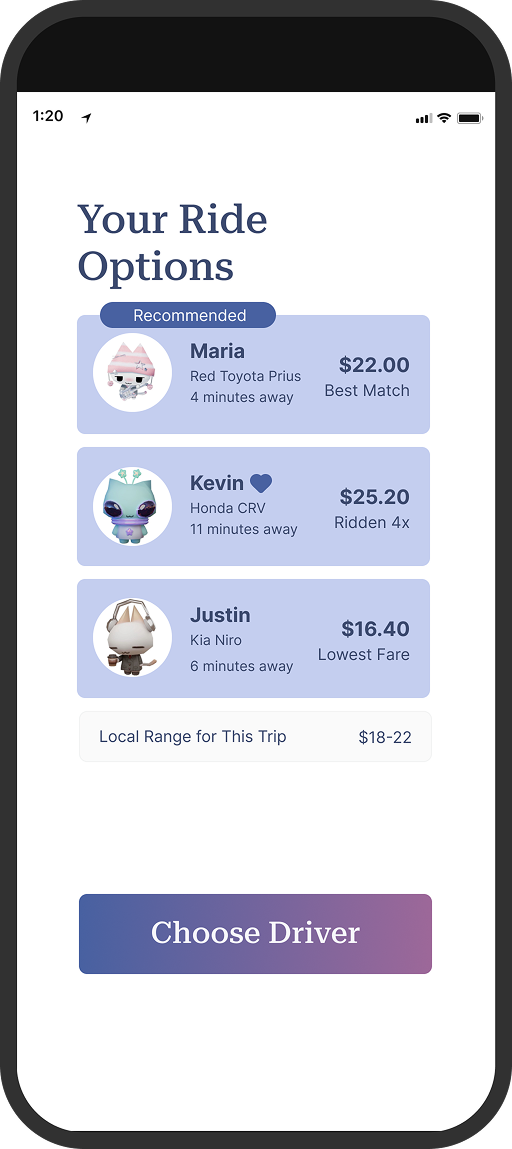
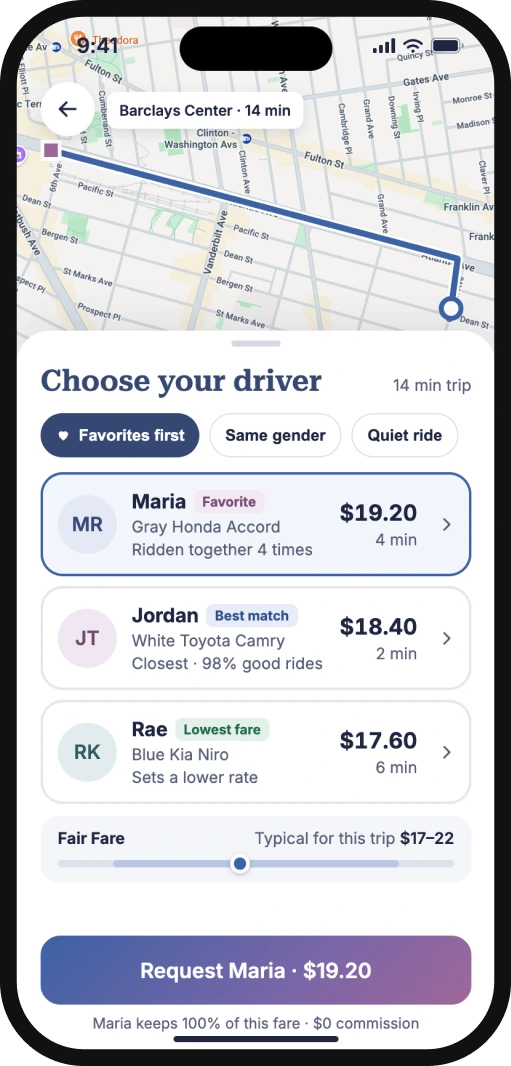
new images + mockups

diff --git a/index.html b/index.html
@@ -38,7 +38,7 @@
 <main id="main">
 
 <section class="chapter chapter--first" id="overview" aria-labelledby="overview-h">
-  <figure class="panel hero"><button type="button" class="zoom" data-full="img/wall-billboard-2400.webp" data-alt="Empower campaign on a New York building wall: two phones showing the app beside the line “Ride with someone you trust”." aria-label="Enlarge: Empower campaign on a New York building wall: two phones showing the app beside the line “Ride with someone you trust”."><img class="img " src="img/wall-billboard-1600.webp" srcset="img/wall-billboard-900.webp 900w, img/wall-billboard-1600.webp 1600w, img/wall-billboard-2400.webp 2400w" sizes="(min-width: 1000px) 72vw, 100vw" width="5840" height="3283" alt="Empower campaign on a New York building wall: two phones showing the app beside the line “Ride with someone you trust”." loading="eager" fetchpriority=high decoding="async"></button><figcaption class="caption">Campaign · “Ride with someone you trust”, wall mural</figcaption></figure>
+  <figure class="panel hero"><button type="button" class="zoom" data-full="img/wall-billboard-2400.webp" data-alt="Empower campaign on a New York building wall: two phones showing the app beside the line “Ride with someone you trust”." aria-label="Enlarge: Empower campaign on a New York building wall: two phones showing the app beside the line “Ride with someone you trust”."><img class="img " src="img/wall-billboard-1600.webp" srcset="img/wall-billboard-900.webp 900w, img/wall-billboard-1600.webp 1600w, img/wall-billboard-2400.webp 2400w" sizes="(min-width: 1000px) 72vw, 100vw" width="6144" height="4096" alt="Empower campaign on a New York building wall: two phones showing the app beside the line “Ride with someone you trust”." loading="eager" fetchpriority=high decoding="async"></button><figcaption class="caption">Campaign · “Ride with someone you trust”, wall mural</figcaption></figure>
   <div class="chapter__head"><p class="chapter__label">Overview</p><div class="chapter__copy" data-reveal>
     <h1 id="overview-h" class="display">A ride belongs to both people in it.</h1>
     <p>A brand and product redesign for Empower, a rideshare network built around agency, not convenience.</p>
@@ -64,7 +64,7 @@
 <section class="chapter" id="concept" aria-labelledby="concept-h">
   <div class="chapter__head"><p class="chapter__label">Concept</p><div class="chapter__copy" data-reveal></div></div>
   <div class="chapter__body concept">
-    <figure class="concept__media" data-reveal><button type="button" class="zoom" data-full="img/hands-phone-2400.webp" data-alt="A rider holding a phone showing the redesigned Empower home screen: “Where are you headed?” with nearby trusted drivers." aria-label="Enlarge: A rider holding a phone showing the redesigned Empower home screen: “Where are you headed?” with nearby trusted drivers."><img class="img " src="img/hands-phone-1600.webp" srcset="img/hands-phone-900.webp 900w, img/hands-phone-1600.webp 1600w, img/hands-phone-2400.webp 2400w" sizes="(min-width: 1000px) 28vw, 90vw" width="3836" height="5754" alt="A rider holding a phone showing the redesigned Empower home screen: “Where are you headed?” with nearby trusted drivers." loading="lazy" decoding="async"></button></figure>
+    <figure class="concept__media" data-reveal><button type="button" class="zoom" data-full="img/hands-phone-1440.webp" data-alt="A rider holding a phone showing the redesigned ride-complete screen: a thumbs-up, a $3 tip for Maria and a receipt where Empower took $0." aria-label="Enlarge: A rider holding a phone showing the redesigned ride-complete screen: a thumbs-up, a $3 tip for Maria and a receipt where Empower took $0."><img class="img " src="img/hands-phone-1440.webp" srcset="img/hands-phone-900.webp 900w, img/hands-phone-1440.webp 1440w" sizes="(min-width: 1000px) 28vw, 90vw" width="1440" height="2160" alt="A rider holding a phone showing the redesigned ride-complete screen: a thumbs-up, a $3 tip for Maria and a receipt where Empower took $0." loading="lazy" decoding="async"></button></figure>
     <ol class="principles" data-reveal style="--d:120ms">
       <li>The driver has a voice</li><li>The rider has a choice</li><li class="is-strong">The platform makes the connection</li>
     </ol>
@@ -94,35 +94,35 @@
       <div class="panel type type--serif" data-reveal><p class="specimen specimen--serif" aria-hidden="true">Aa</p><h3 class="h3">Roboto Serif</h3><p class="use">Display / headlines / assurance moments</p><p>Gives the product an editorial voice. Contrasts the utilitarian tone rideshare apps default to.</p><p class="sample sample--serif">Where are you headed?</p></div>
       <div class="panel type type--sans" data-reveal style="--d:120ms"><p class="specimen specimen--sans" aria-hidden="true">Aa</p><h3 class="h3">Inter</h3><p class="use">Body / labels / UI text / numbers</p><p>Made for screens. Legible at all small sizes, subtle enough to disappear into the interface. Carries driver bios, fare breakdowns and everyday copy.</p><p class="sample sample--sans">Maria · Red Toyota Prius · 4 minutes away · $22.00</p></div>
     </div>
-    <div class="panel panel--fog phones" data-reveal><button type="button" class="zoom" data-full="img/new-home.webp" data-alt="Redesigned rider home: “Where are you headed?” set in Roboto Serif." aria-label="Enlarge: Redesigned rider home: “Where are you headed?” set in Roboto Serif."><img class="img " src="img/new-home.webp" width="512" height="1149" alt="Redesigned rider home: “Where are you headed?” set in Roboto Serif." loading="lazy" decoding="async"></button><button type="button" class="zoom" data-full="img/new-options.webp" data-alt="Redesigned ride options list set in Roboto Serif and Inter." aria-label="Enlarge: Redesigned ride options list set in Roboto Serif and Inter."><img class="img " src="img/new-options.webp" width="512" height="1149" alt="Redesigned ride options list set in Roboto Serif and Inter." loading="lazy" decoding="async"></button></div>
+    <div class="panel panel--fog phones" data-reveal><button type="button" class="zoom" data-full="img/new-home.webp" data-alt="Redesigned rider home: “Good evening, Isabella” set in Roboto Serif over a live map." aria-label="Enlarge: Redesigned rider home: “Good evening, Isabella” set in Roboto Serif over a live map."><img class="img " src="img/new-home.webp" width="511" height="1066" alt="Redesigned rider home: “Good evening, Isabella” set in Roboto Serif over a live map." loading="lazy" decoding="async"></button><button type="button" class="zoom" data-full="img/new-options.webp" data-alt="Redesigned “Choose your driver” list set in Roboto Serif and Inter." aria-label="Enlarge: Redesigned “Choose your driver” list set in Roboto Serif and Inter."><img class="img " src="img/new-options.webp" width="511" height="1066" alt="Redesigned “Choose your driver” list set in Roboto Serif and Inter." loading="lazy" decoding="async"></button></div>
   </div>
 </section>
 
-<section class="chapter group" id="screens" aria-label="Screens"><div class="chapter__head"><p class="chapter__label">Screens</p><div class="chapter__copy" data-reveal></div></div><div class="chapter__body"><figure class="panel" data-reveal><button type="button" class="zoom" data-full="img/screens-phones-2400.webp" data-alt="Two phones at an angle on a grey surface: the ride rating screen with a gradient Complete button, and the in-ride map screen reading “On the way to your destination!”." aria-label="Enlarge: Two phones at an angle on a grey surface: the ride rating screen with a gradient Complete button, and the in-ride map screen reading “On the way to your destination!”."><img class="img" src="img/screens-phones-1600.webp" srcset="img/screens-phones-1600.webp 1600w, img/screens-phones-2400.webp 2400w" sizes="(min-width: 1000px) 72vw, 100vw" width="2400" height="1792" alt="Two phones at an angle on a grey surface: the ride rating screen with a gradient Complete button, and the in-ride map screen reading “On the way to your destination!”." loading="lazy" decoding="async"></button><figcaption class="caption">Rider app · rating and in-ride screens</figcaption></figure></div></section>
+<section class="chapter group" id="screens" aria-label="Screens"><div class="chapter__head"><p class="chapter__label">Screens</p><div class="chapter__copy" data-reveal></div></div><div class="chapter__body"><figure class="panel" data-reveal><button type="button" class="zoom" data-full="img/screens-phones-2400.webp" data-alt="Two phones at an angle on a grey surface: “Choose your driver” listing Maria, Jordan and Rae, and the in-ride map on the way to Barclays Center." aria-label="Enlarge: Two phones at an angle on a grey surface: “Choose your driver” listing Maria, Jordan and Rae, and the in-ride map on the way to Barclays Center."><img class="img" src="img/screens-phones-1600.webp" srcset="img/screens-phones-1600.webp 1600w, img/screens-phones-2400.webp 2400w" sizes="(min-width: 1000px) 72vw, 100vw" width="3072" height="2048" alt="Two phones at an angle on a grey surface: “Choose your driver” listing Maria, Jordan and Rae, and the in-ride map on the way to Barclays Center." loading="lazy" decoding="async"></button><figcaption class="caption">Rider app · choosing a driver and in ride</figcaption></figure></div></section>
 
 <section class="chapter" id="choice" aria-label="Show the drivers, then the price">
-  <div class="chapter__body"><div class="panel panel--peri phones phones--stagger" data-reveal><button type="button" class="zoom" data-full="img/ui-home.webp" data-alt="Rider home with a banner: “3 drivers you trust are nearby”." aria-label="Enlarge: Rider home with a banner: “3 drivers you trust are nearby”."><img class="img " src="img/ui-home.webp" width="512" height="1149" alt="Rider home with a banner: “3 drivers you trust are nearby”." loading="lazy" decoding="async"></button><button type="button" class="zoom" data-full="img/ui-options.webp" data-alt="Ride options listing Maria, Kevin and Justin with individual fares and a local range for the trip." aria-label="Enlarge: Ride options listing Maria, Kevin and Justin with individual fares and a local range for the trip."><img class="img " src="img/ui-options.webp" width="512" height="1149" alt="Ride options listing Maria, Kevin and Justin with individual fares and a local range for the trip." loading="lazy" decoding="async"></button></div></div>
+  <div class="chapter__body"><div class="panel panel--peri phones phones--stagger" data-reveal><button type="button" class="zoom" data-full="img/ui-home.webp" data-alt="Rider home showing “Your favorites nearby”: Maria, Jordan and Rae." aria-label="Enlarge: Rider home showing “Your favorites nearby”: Maria, Jordan and Rae."><img class="img " src="img/ui-home.webp" width="511" height="1066" alt="Rider home showing “Your favorites nearby”: Maria, Jordan and Rae." loading="lazy" decoding="async"></button><button type="button" class="zoom" data-full="img/ui-options.webp" data-alt="Choose your driver: Maria, Jordan and Rae with individual fares and a Fair Fare range for the trip." aria-label="Enlarge: Choose your driver: Maria, Jordan and Rae with individual fares and a Fair Fare range for the trip."><img class="img " src="img/ui-options.webp" width="511" height="1066" alt="Choose your driver: Maria, Jordan and Rae with individual fares and a Fair Fare range for the trip." loading="lazy" decoding="async"></button></div></div>
 </section>
 
 <section class="chapter" id="before-after" aria-label="Same functions, one voice">
   <div class="chapter__body"><div class="panel panel--fog compare" data-reveal>
     <div class="seg" role="group" aria-label="Compare screens"><button type="button" class="seg__btn" data-set="old" aria-pressed="true">Old</button><button type="button" class="seg__btn" data-set="new" aria-pressed="false">New</button></div>
-    <div class="compare__set" data-set="old"><span class="compare__tag">Before</span><div class="compare__row"><figure><button type="button" class="zoom" data-full="img/old-help.webp" data-alt="Original help screen" aria-label="Enlarge: Original help screen"><img class="img " src="img/old-help.webp" width="700" height="1571" alt="Original help screen" loading="lazy" decoding="async"></button><figcaption>Help</figcaption></figure><figure><button type="button" class="zoom" data-full="img/old-menu.webp" data-alt="Original account screen" aria-label="Enlarge: Original account screen"><img class="img " src="img/old-menu.webp" width="700" height="1571" alt="Original account screen" loading="lazy" decoding="async"></button><figcaption>Account</figcaption></figure><figure><button type="button" class="zoom" data-full="img/old-credit.webp" data-alt="Original credits screen" aria-label="Enlarge: Original credits screen"><img class="img " src="img/old-credit.webp" width="700" height="1571" alt="Original credits screen" loading="lazy" decoding="async"></button><figcaption>Credits</figcaption></figure></div></div>
-    <div class="compare__set" data-set="new"><span class="compare__tag">After</span><div class="compare__row"><figure><button type="button" class="zoom" data-full="img/ui-help.webp" data-alt="Redesigned help screen" aria-label="Enlarge: Redesigned help screen"><img class="img " src="img/ui-help.webp" width="512" height="1149" alt="Redesigned help screen" loading="lazy" decoding="async"></button><figcaption>Help</figcaption></figure><figure><button type="button" class="zoom" data-full="img/ui-account.webp" data-alt="Redesigned account screen" aria-label="Enlarge: Redesigned account screen"><img class="img " src="img/ui-account.webp" width="512" height="1149" alt="Redesigned account screen" loading="lazy" decoding="async"></button><figcaption>Account</figcaption></figure><figure><button type="button" class="zoom" data-full="img/ui-credit.webp" data-alt="Redesigned credits screen" aria-label="Enlarge: Redesigned credits screen"><img class="img " src="img/ui-credit.webp" width="512" height="1149" alt="Redesigned credits screen" loading="lazy" decoding="async"></button><figcaption>Credits</figcaption></figure></div></div>
+    <div class="compare__set" data-set="old"><span class="compare__tag">Before</span><div class="compare__row"><figure><button type="button" class="zoom" data-full="img/old-home.webp" data-alt="Original rider home screen" aria-label="Enlarge: Original rider home screen"><img class="img " src="img/old-home.webp" width="700" height="1571" alt="Original rider home screen" loading="lazy" decoding="async"></button><figcaption>Home</figcaption></figure><figure><button type="button" class="zoom" data-full="img/old-menu.webp" data-alt="Original account screen" aria-label="Enlarge: Original account screen"><img class="img " src="img/old-menu.webp" width="700" height="1571" alt="Original account screen" loading="lazy" decoding="async"></button><figcaption>Account</figcaption></figure><figure><button type="button" class="zoom" data-full="img/old-credit.webp" data-alt="Original credits screen" aria-label="Enlarge: Original credits screen"><img class="img " src="img/old-credit.webp" width="700" height="1571" alt="Original credits screen" loading="lazy" decoding="async"></button><figcaption>Credits</figcaption></figure></div></div>
+    <div class="compare__set" data-set="new"><span class="compare__tag">After</span><div class="compare__row"><figure><button type="button" class="zoom" data-full="img/ui-home.webp" data-alt="Redesigned rider home screen" aria-label="Enlarge: Redesigned rider home screen"><img class="img " src="img/ui-home.webp" width="511" height="1066" alt="Redesigned rider home screen" loading="lazy" decoding="async"></button><figcaption>Home</figcaption></figure><figure><button type="button" class="zoom" data-full="img/ui-account.webp" data-alt="Redesigned account screen" aria-label="Enlarge: Redesigned account screen"><img class="img " src="img/ui-account.webp" width="511" height="1066" alt="Redesigned account screen" loading="lazy" decoding="async"></button><figcaption>Account</figcaption></figure><figure><button type="button" class="zoom" data-full="img/ui-credit.webp" data-alt="Redesigned credits screen" aria-label="Enlarge: Redesigned credits screen"><img class="img " src="img/ui-credit.webp" width="511" height="1066" alt="Redesigned credits screen" loading="lazy" decoding="async"></button><figcaption>Credits</figcaption></figure></div></div>
   </div></div>
 </section>
 
 <section class="chapter" id="driver" aria-label="The driver sets the rate">
-  <div class="chapter__body"><div class="panel panel--navy"><div class="drivers"><div class="drivers__item" data-reveal><button type="button" class="zoom" data-full="img/ui-d-home.webp" data-alt="Driver home screen showing today’s earnings and an active request" aria-label="Enlarge: Driver home screen showing today’s earnings and an active request"><img class="img " src="img/ui-d-home.webp" width="512" height="1149" alt="Driver home screen showing today’s earnings and an active request" loading="lazy" decoding="async"></button><span>Driver home</span></div><div class="drivers__item" data-reveal style="--d:90ms"><button type="button" class="zoom" data-full="img/ui-d-request.webp" data-alt="Incoming ride request with fare and driver earnings" aria-label="Enlarge: Incoming ride request with fare and driver earnings"><img class="img " src="img/ui-d-request.webp" width="512" height="1149" alt="Incoming ride request with fare and driver earnings" loading="lazy" decoding="async"></button><span>Incoming request</span></div><div class="drivers__item" data-reveal style="--d:180ms"><button type="button" class="zoom" data-full="img/ui-d-rate.webp" data-alt="Rate card where the driver sets a base fare" aria-label="Enlarge: Rate card where the driver sets a base fare"><img class="img " src="img/ui-d-rate.webp" width="512" height="1149" alt="Rate card where the driver sets a base fare" loading="lazy" decoding="async"></button><span>Rate card</span></div><div class="drivers__item" data-reveal style="--d:270ms"><button type="button" class="zoom" data-full="img/ui-d-earnings.webp" data-alt="Weekly earnings overview ending in 100% you keep" aria-label="Enlarge: Weekly earnings overview ending in 100% you keep"><img class="img " src="img/ui-d-earnings.webp" width="512" height="1149" alt="Weekly earnings overview ending in 100% you keep" loading="lazy" decoding="async"></button><span>Earnings</span></div></div></div></div>
+  <div class="chapter__body"><div class="panel panel--navy"><div class="drivers"><div class="drivers__item" data-reveal><button type="button" class="zoom" data-full="img/ui-d-home.webp" data-alt="Driver home: online toggle, today’s earnings, your rate and a new request" aria-label="Enlarge: Driver home: online toggle, today’s earnings, your rate and a new request"><img class="img " src="img/ui-d-home.webp" width="511" height="1066" alt="Driver home: online toggle, today’s earnings, your rate and a new request" loading="lazy" decoding="async"></button><span>Driver home</span></div><div class="drivers__item" data-reveal style="--d:90ms"><button type="button" class="zoom" data-full="img/ui-d-request.webp" data-alt="Incoming ride request: $23.50 fare, you keep $23.50" aria-label="Enlarge: Incoming ride request: $23.50 fare, you keep $23.50"><img class="img " src="img/ui-d-request.webp" width="511" height="1066" alt="Incoming ride request: $23.50 fare, you keep $23.50" loading="lazy" decoding="async"></button><span>Incoming request</span></div><div class="drivers__item" data-reveal style="--d:180ms"><button type="button" class="zoom" data-full="img/ui-d-rate.webp" data-alt="Rate card: the driver sets a base fare and sees the effect on requests" aria-label="Enlarge: Rate card: the driver sets a base fare and sees the effect on requests"><img class="img " src="img/ui-d-rate.webp" width="511" height="1066" alt="Rate card: the driver sets a base fare and sees the effect on requests" loading="lazy" decoding="async"></button><span>Rate card</span></div><div class="drivers__item" data-reveal style="--d:270ms"><button type="button" class="zoom" data-full="img/ui-d-earnings.webp" data-alt="Weekly earnings overview: you kept 100% of every fare" aria-label="Enlarge: Weekly earnings overview: you kept 100% of every fare"><img class="img " src="img/ui-d-earnings.webp" width="511" height="1066" alt="Weekly earnings overview: you kept 100% of every fare" loading="lazy" decoding="async"></button><span>Earnings</span></div></div></div></div>
 </section>
 
 <section class="chapter" id="journey" aria-labelledby="journey-h">
   <div class="chapter__head"><p class="chapter__label">Flow</p><div class="chapter__copy" data-reveal><h2 id="journey-h" class="h2">The rider journey.</h2><p>Scroll sideways.</p></div></div>
-  <div class="chapter__body"><div class="panel panel--indigo" data-reveal><div class="journey" tabindex="0" role="region" aria-label="Rider journey screens, scrollable"><ol><li><button type="button" class="zoom" data-full="img/ui-signin.webp" data-alt="Rider app: Sign in" aria-label="Enlarge: Rider app: Sign in"><img class="img " src="img/ui-signin.webp" width="512" height="1149" alt="Rider app: Sign in" loading="lazy" decoding="async"></button><span><b>01</b> Sign in</span></li><li><button type="button" class="zoom" data-full="img/ui-signup.webp" data-alt="Rider app: Sign up" aria-label="Enlarge: Rider app: Sign up"><img class="img " src="img/ui-signup.webp" width="512" height="1149" alt="Rider app: Sign up" loading="lazy" decoding="async"></button><span><b>02</b> Sign up</span></li><li><button type="button" class="zoom" data-full="img/ui-home.webp" data-alt="Rider app: Rider home" aria-label="Enlarge: Rider app: Rider home"><img class="img " src="img/ui-home.webp" width="512" height="1149" alt="Rider app: Rider home" loading="lazy" decoding="async"></button><span><b>03</b> Rider home</span></li><li><button type="button" class="zoom" data-full="img/ui-trip.webp" data-alt="Rider app: Trip setup" aria-label="Enlarge: Rider app: Trip setup"><img class="img " src="img/ui-trip.webp" width="512" height="1149" alt="Rider app: Trip setup" loading="lazy" decoding="async"></button><span><b>04</b> Trip setup</span></li><li><button type="button" class="zoom" data-full="img/ui-options.webp" data-alt="Rider app: Driver choices" aria-label="Enlarge: Rider app: Driver choices"><img class="img " src="img/ui-options.webp" width="512" height="1149" alt="Rider app: Driver choices" loading="lazy" decoding="async"></button><span><b>05</b> Driver choices</span></li><li><button type="button" class="zoom" data-full="img/ui-confirm.webp" data-alt="Rider app: Confirmation" aria-label="Enlarge: Rider app: Confirmation"><img class="img " src="img/ui-confirm.webp" width="512" height="1149" alt="Rider app: Confirmation" loading="lazy" decoding="async"></button><span><b>06</b> Confirmation</span></li><li><button type="button" class="zoom" data-full="img/ui-inride.webp" data-alt="Rider app: In ride" aria-label="Enlarge: Rider app: In ride"><img class="img " src="img/ui-inride.webp" width="512" height="1149" alt="Rider app: In ride" loading="lazy" decoding="async"></button><span><b>07</b> In ride</span></li><li><button type="button" class="zoom" data-full="img/ui-complete.webp" data-alt="Rider app: Complete" aria-label="Enlarge: Rider app: Complete"><img class="img " src="img/ui-complete.webp" width="512" height="1149" alt="Rider app: Complete" loading="lazy" decoding="async"></button><span><b>08</b> Complete</span></li><li><button type="button" class="zoom" data-full="img/ui-account.webp" data-alt="Rider app: Account" aria-label="Enlarge: Rider app: Account"><img class="img " src="img/ui-account.webp" width="512" height="1149" alt="Rider app: Account" loading="lazy" decoding="async"></button><span><b>09</b> Account</span></li><li><button type="button" class="zoom" data-full="img/ui-help.webp" data-alt="Rider app: Help" aria-label="Enlarge: Rider app: Help"><img class="img " src="img/ui-help.webp" width="512" height="1149" alt="Rider app: Help" loading="lazy" decoding="async"></button><span><b>10</b> Help</span></li><li><button type="button" class="zoom" data-full="img/ui-credit.webp" data-alt="Rider app: Get credit" aria-label="Enlarge: Rider app: Get credit"><img class="img " src="img/ui-credit.webp" width="512" height="1149" alt="Rider app: Get credit" loading="lazy" decoding="async"></button><span><b>11</b> Get credit</span></li></ol></div></div></div>
+  <div class="chapter__body"><div class="panel panel--indigo" data-reveal><div class="journey" tabindex="0" role="region" aria-label="Rider journey screens, scrollable"><ol><li><button type="button" class="zoom" data-full="img/ui-signin.webp" data-alt="Rider app: Welcome" aria-label="Enlarge: Rider app: Welcome"><img class="img " src="img/ui-signin.webp" width="511" height="1066" alt="Rider app: Welcome" loading="lazy" decoding="async"></button><span><b>01</b> Welcome</span></li><li><button type="button" class="zoom" data-full="img/ui-home.webp" data-alt="Rider app: Rider home" aria-label="Enlarge: Rider app: Rider home"><img class="img " src="img/ui-home.webp" width="511" height="1066" alt="Rider app: Rider home" loading="lazy" decoding="async"></button><span><b>02</b> Rider home</span></li><li><button type="button" class="zoom" data-full="img/ui-trip.webp" data-alt="Rider app: Plan your ride" aria-label="Enlarge: Rider app: Plan your ride"><img class="img " src="img/ui-trip.webp" width="511" height="1066" alt="Rider app: Plan your ride" loading="lazy" decoding="async"></button><span><b>03</b> Plan your ride</span></li><li><button type="button" class="zoom" data-full="img/ui-options.webp" data-alt="Rider app: Choose your driver" aria-label="Enlarge: Rider app: Choose your driver"><img class="img " src="img/ui-options.webp" width="511" height="1066" alt="Rider app: Choose your driver" loading="lazy" decoding="async"></button><span><b>04</b> Choose your driver</span></li><li><button type="button" class="zoom" data-full="img/ui-profile.webp" data-alt="Rider app: Driver profile" aria-label="Enlarge: Rider app: Driver profile"><img class="img " src="img/ui-profile.webp" width="511" height="1066" alt="Rider app: Driver profile" loading="lazy" decoding="async"></button><span><b>05</b> Driver profile</span></li><li><button type="button" class="zoom" data-full="img/ui-confirm.webp" data-alt="Rider app: Driver on the way" aria-label="Enlarge: Rider app: Driver on the way"><img class="img " src="img/ui-confirm.webp" width="511" height="1066" alt="Rider app: Driver on the way" loading="lazy" decoding="async"></button><span><b>06</b> Driver on the way</span></li><li><button type="button" class="zoom" data-full="img/ui-inride.webp" data-alt="Rider app: In ride" aria-label="Enlarge: Rider app: In ride"><img class="img " src="img/ui-inride.webp" width="511" height="1066" alt="Rider app: In ride" loading="lazy" decoding="async"></button><span><b>07</b> In ride</span></li><li><button type="button" class="zoom" data-full="img/ui-complete.webp" data-alt="Rider app: Ride complete" aria-label="Enlarge: Rider app: Ride complete"><img class="img " src="img/ui-complete.webp" width="511" height="1066" alt="Rider app: Ride complete" loading="lazy" decoding="async"></button><span><b>08</b> Ride complete</span></li><li><button type="button" class="zoom" data-full="img/ui-account.webp" data-alt="Rider app: Account" aria-label="Enlarge: Rider app: Account"><img class="img " src="img/ui-account.webp" width="511" height="1066" alt="Rider app: Account" loading="lazy" decoding="async"></button><span><b>09</b> Account</span></li><li><button type="button" class="zoom" data-full="img/ui-credit.webp" data-alt="Rider app: Get ride credit" aria-label="Enlarge: Rider app: Get ride credit"><img class="img " src="img/ui-credit.webp" width="511" height="1066" alt="Rider app: Get ride credit" loading="lazy" decoding="async"></button><span><b>10</b> Get ride credit</span></li></ol></div></div></div>
 </section>
 
 <section class="chapter" id="icon" aria-label="From the glass of a car to the glass of a phone">
-  <div class="chapter__body"><div class="panel panel--peri iconpanel" data-reveal><button type="button" class="zoom" data-full="img/homescreen.webp" data-alt="A phone home screen with the Empower app icon, a gradient tile with the white mark." aria-label="Enlarge: A phone home screen with the Empower app icon, a gradient tile with the white mark."><img class="img " src="img/homescreen.webp" width="700" height="1571" alt="A phone home screen with the Empower app icon, a gradient tile with the white mark." loading="lazy" decoding="async"></button></div></div>
+  <div class="chapter__body"><div class="panel panel--peri iconpanel" data-reveal><button type="button" class="zoom" data-full="img/homescreen.webp" data-alt="A phone home screen with the Empower app icon, a gradient tile with the white mark." aria-label="Enlarge: A phone home screen with the Empower app icon, a gradient tile with the white mark."><img class="img " src="img/homescreen.webp" width="511" height="1064" alt="A phone home screen with the Empower app icon, a gradient tile with the white mark." loading="lazy" decoding="async"></button></div></div>
 </section>
 
 <section class="chapter group" id="campaign" aria-label="Campaign"><div class="chapter__head"><p class="chapter__label">Brand</p><div class="chapter__copy" data-reveal><h2 class="h2">Campaign</h2></div></div><div class="chapter__body stack"><div class="pair"><figure class="panel" data-reveal><button type="button" class="zoom" data-full="img/campaign-man-1608.webp" data-alt="An older man in a cap and dark jacket waits at a roadside at dusk, with the Empower mark and wordmark in the lower right." aria-label="Enlarge: An older man in a cap and dark jacket waits at a roadside at dusk, with the Empower mark and wordmark in the lower right."><img class="img" src="img/campaign-man-1600.webp" srcset="img/campaign-man-1600.webp 1600w, img/campaign-man-1608.webp 1608w" sizes="(min-width: 1000px) 30vw, 100vw" width="1608" height="2242" alt="An older man in a cap and dark jacket waits at a roadside at dusk, with the Empower mark and wordmark in the lower right." loading="lazy" decoding="async"></button><figcaption class="caption">Campaign · roadside</figcaption></figure><figure class="panel" data-reveal><button type="button" class="zoom" data-full="img/campaign-hood-2218.webp" data-alt="A person in a grey hood looks at their wrist beside a wet city street, with the Empower gradient pill logo overlaid." aria-label="Enlarge: A person in a grey hood looks at their wrist beside a wet city street, with the Empower gradient pill logo overlaid."><img class="img" src="img/campaign-hood-1600.webp" srcset="img/campaign-hood-1600.webp 1600w, img/campaign-hood-2218.webp 2218w" sizes="(min-width: 1000px) 42vw, 100vw" width="2218" height="1940" alt="A person in a grey hood looks at their wrist beside a wet city street, with the Empower gradient pill logo overlaid." loading="lazy" decoding="async"></button><figcaption class="caption">Campaign · street</figcaption></figure></div><figure class="panel" data-reveal><button type="button" class="zoom" data-full="img/campaign-busstop-2400.webp" data-alt="A man sits on a bench at a bus stop looking at his phone, taxis passing, with the Empower gradient pill logo overlaid." aria-label="Enlarge: A man sits on a bench at a bus stop looking at his phone, taxis passing, with the Empower gradient pill logo overlaid."><img class="img" src="img/campaign-busstop-1600.webp" srcset="img/campaign-busstop-1600.webp 1600w, img/campaign-busstop-2400.webp 2400w" sizes="(min-width: 1000px) 72vw, 100vw" width="3000" height="2000" alt="A man sits on a bench at a bus stop looking at his phone, taxis passing, with the Empower gradient pill logo overlaid." loading="lazy" decoding="async"></button><figcaption class="caption">Campaign · bus stop</figcaption></figure></div></section>
